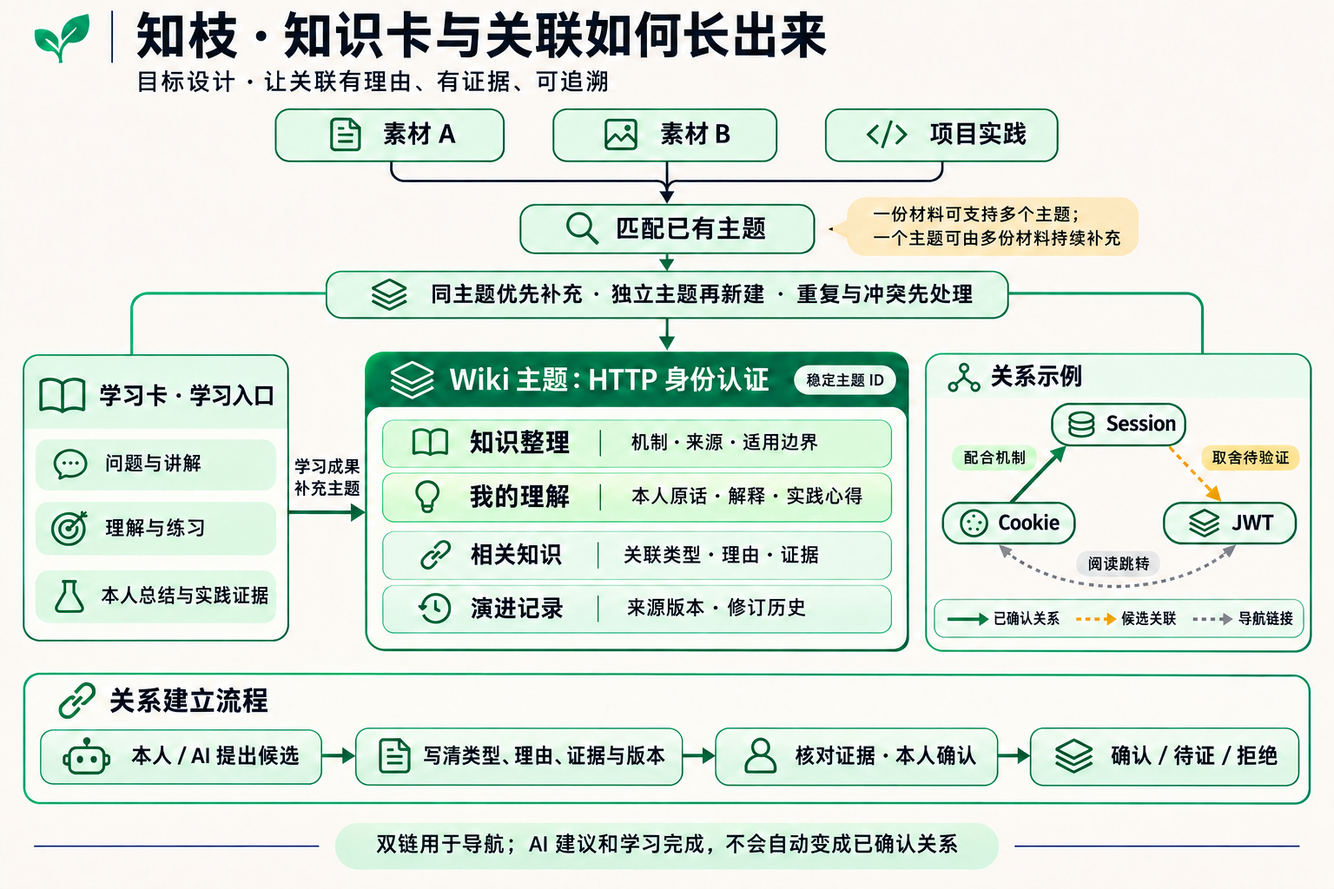
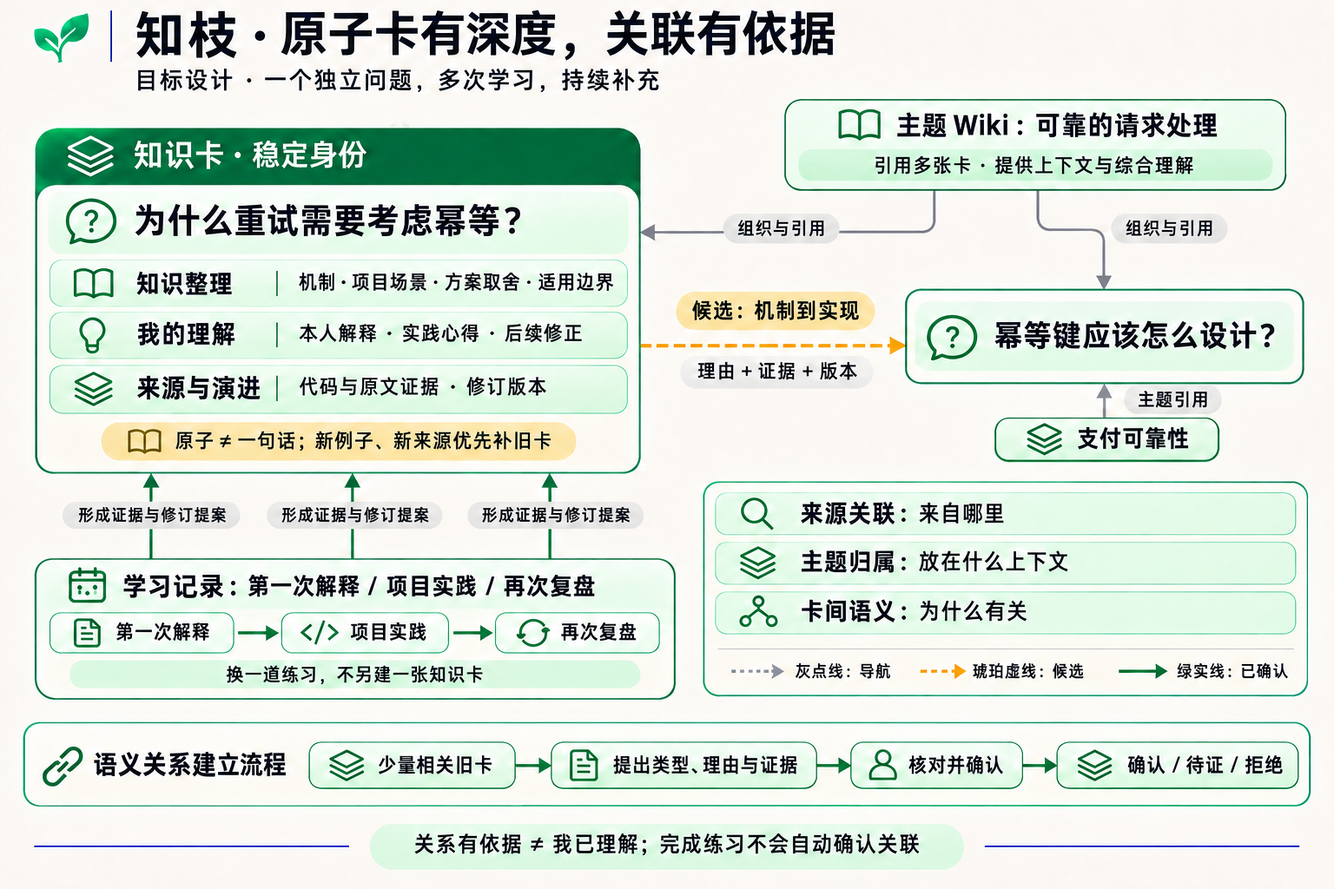
更新原子知识卡与学习预算的目标设计

diff --git a/docs/assets/vision/prompts.md b/docs/assets/vision/prompts.md
@@ -1,131 +1,102 @@
 # 目标设计图的生成说明
 
-这三张图描述产品构想，不表示当前代码完成度。设计依据见 [产品方向](../../../.agents/notes/proposed/2026-11-16-product-direction.md)。使用内置 imagegen；参考上一版知枝信息图的配色与图标风格，重新组织信息。
+这三张图描述已确认的产品方向，不表示当前代码完成度。设计依据见[产品方向](../../../.agents/notes/proposed/2026-11-16-product-direction.md)。本轮使用内置 imagegen，以同名旧图作为视觉风格参考，按原子知识卡、独立学习记录、主题组织与每日预算重绘。旧版内容由 Git 历史保留。
 
 | 文件 | 用途 |
 |---|---|
-| [target-overview.png](target-overview.png) | 项目目标全景 |
-| [knowledge-cards-relations.png](knowledge-cards-relations.png) | 学习卡、长期主题及关联建立 |
-| [learning-feedback-loop.png](learning-feedback-loop.png) | 地图、雷达、知返与 Wiki 回流 |
+| [target-overview.png](target-overview.png) | 输入、审核、原子卡与主题组织的全景 |
+| [knowledge-cards-relations.png](knowledge-cards-relations.png) | 丰富的原子卡、独立学习记录、多主题引用与卡间语义关系 |
+| [learning-feedback-loop.png](learning-feedback-loop.png) | 聚合输入、优先补旧卡、正式新增与每日学习预算 |
 
-重绘时可以把同目录现有图片作为风格参考。下列提示词为本轮实际使用内容，示例关系不是最终 Schema 枚举。
+图中候选分配数字仅为示意；每天 0～3 张正式新增、一条主线约 15～20 分钟是可调整的起始默认。关系名称为解释用示例，未固定为 Schema 枚举。
+
+以下为本轮实际使用的提示词；输入图仅作风格参考，图中旧对象定义已被新方案取代。
 
 ## 产品目标全景
 
 ```text
 Use case: infographic-diagram.
-Asset type: Chinese open-source README product vision diagram, landscape 3:2, very high resolution, readable Chinese typography.
-Primary request: Completely redesign the prior Zhizhi diagram to describe the intended future product, not implementation status. Input images are STYLE REFERENCES ONLY: retain cream background, dark navy text, restrained emerald green and soft teal, elegant thin line icons and rounded cards. Replace all old content and layout. Do not show completed/planned badges, checkmarks, percentages, source commit numbers, backend folder paths or current implementation claims. Clear flow and generous spacing matter more than decorative elements.
-
-Title exactly: “知枝 · 我们想实现的个人知识系统”
-Small subtitle exactly: “目标设计 · 不代表当前完成度”
-
-Organize an instantly understandable product flow around a large central knowledge asset:
-LEFT two entry sources:
-“读到的内容” with “文章 · 视频 · 链接 · 笔记”
-below it “做过的实践” with “Git 提交 · 项目问题 · 主动探索”
-Their paths respectively say “采集 → 摘要预览 → 本人收藏” and “知返：理解 · 练习 · 实践”.
-
-TOP show “微信 / Telegram” and “Web 工作台” connecting into “知识 Agent”, with small label “自然语言交互 · 调用知识与学习能力”. Agent participates in collection, search and learning, without bypassing review.
-
-CENTER show the incoming update path “匹配已有主题 → 增补或新建提案 → 分级审核” leading into a visually dominant card titled “同一套 Wiki 知识体系”.
-Inside that card show two clearly separated equal sections:
-“知识整理” — “定义 · 机制 · 边界 · 来源”
-“我的理解” — “本人解释 · 类比 · 实践心得”
-Bottom of central card: “相关知识 · 来源证据 · 修订历史”.
-Near review path show a concise note: “普通有据增补可自动；个人观点与重大改动本人确认”.
-
-RIGHT show three derived uses:
-“知识地图” — “浏览主题与已确认关系”
-“学习雷达” — “提出候选关联与学习建议”
-“按权限发布 Wiki” — “私有阅读 / 合格公开投影”
-A clear feedback arrow from learning radar to 知返 learning path says “本人采纳后学习，再回填”.
-
-BOTTOM place “Obsidian · 主要编辑界面” connected bidirectionally to the central Wiki, label “Git 同步 · 版本追踪 · 冲突处理”.
-A small calm foundation note: “正文：Markdown / Git　流程状态：SQLite　原件与索引分层保存”.
-
-All displayed text in simplified Chinese as specified. Product relationships must be clear: all lasting outcomes converge into the SAME Wiki, knowledge organization and personal understanding remain visibly distinct, Obsidian remains primary editor, raw materials are distinct from formal knowledge, private knowledge does not automatically become public. Do not include a status-colored function tree or invented mastery scores. This is an explanatory product illustration, not a software microservice topology.
+Asset type: Chinese open-source README vision diagram, high-resolution landscape 3:2.
+Input image: STYLE REFERENCE ONLY. Keep its cream background, navy Chinese typography, emerald/soft teal rounded cards, thin line icons, occasional amber review notes. Completely redesign content and composition to reflect the new model below. Large readable simplified Chinese, strong hierarchy, generous whitespace.
+Title exactly “知枝 · 从日常输入到自己的知识网络”
+Subtitle exactly “目标设计 · 不代表当前完成度”
+Top slim entry bar: “微信 / Telegram · Web 工作台 → 知识 Agent”.
+Main left-to-right flow:
+Left two input cards “读到的材料” with “采集 → 摘要预览 → 本人收藏”, and “做过的实践” with “Git 提交 · 项目问题 · 主动探索”.
+Both flow into a compact gateway “聚合工作意图 → 匹配已有卡 → 增补或新建提案 → 分级审核”. This gateway leads into a large central container “同一套 Wiki 知识资产”.
+Within central container, show TWO clearly distinct layers:
+Bottom/main content layer “原子知识卡” — “一个可独立解释、验证、迁移的问题”; draw three rich small document cards connected to one another, not isolated single-word tiles. Beside these use “知识整理 | 我的理解”, then “来源 · 边界 · 版本 · 卡片关系”.
+Top organization layer “主题 Wiki” — “引用卡片 · 组织上下文 · 综合理解”; a thin connector labeled “组织与引用” from the theme layer to the atomic card layer, NOT a content-copying arrow.
+Outside the central knowledge asset, underneath left, a distinct process card “知返 · 学习记录” with “阅读 · 练习 · 解释 · 实践”, small note “多次学习可指向同一张卡”. It points through “成果提案 → 分级审核” into knowledge cards. Learning records themselves remain separate from lasting card content.
+Right derived uses: “知识地图” with “浏览卡片关系与主题概览”; “学习雷达” with “发现候选联系与待证问题”; “按权限发布” with “私有阅读 / 合格公开投影”.
+From 学习雷达 a clearly labeled separate return arrow “本人采纳 → 学习任务” goes ONLY to 知返学习记录, NEVER directly to knowledge assets.
+Bottom bar “Obsidian · 主要编辑界面 ↔ Markdown / Git” with “双向同步 · 冲突保留与合并”.
+Small governance note “普通有据增补可自动；个人观点与重大改动本人确认”.
+Small footer “正文、原件、流程记录与索引分层保存”.
+Semantic constraints: atomic cards and topic Wiki belong to one set of knowledge assets; learning history is separate process evidence. Relationships primarily connect cards, topics organize them. Do not label a knowledge card merely as a learning entry. No completion marks, percentages, status legend, repository paths, or current delivery claims. Avoid tangled arrows; omit decorative minor connectors rather than inventing shortcuts.
 ```
 
-## 知识卡与关联
+## 原子知识卡与关联
 
 ```text
 Use case: infographic-diagram.
-Asset type: a readable Chinese product-design infographic for Zhizhi's open-source README; landscape 3:2 at high resolution.
-Input image is a STYLE REFERENCE ONLY: match its cream background, dark navy type, emerald/teal outlines, softly tinted cards, clear line icons and generous spacing. Create a new information architecture, not a status chart.
-
-Main title exactly: “知枝 · 知识卡与关联如何长出来”
-Subtitle exactly: “目标设计 · 让关联有理由、有证据、可追溯”
-
-The main purpose is to explain the detailed intended knowledge model and relationship-building process, not list software modules.
-TOP small source band: “素材 A” “素材 B” “项目实践” converging through “匹配已有主题”.
-A note exactly: “一份材料可支持多个主题；一个主题可由多份材料持续补充”.
-A compact decision band: “同主题优先补充 · 独立主题再新建 · 重复与冲突先处理”.
-
-MIDDLE LEFT a compact card titled “学习卡 · 学习入口”, with short lines “问题与讲解” “理解与练习” “本人总结与实践证据”.
-An arrow labeled “学习成果补充主题” leads to the CENTER dominant permanent topic card:
-header “Wiki 主题：HTTP 身份认证”
-small stable-identity tag “稳定主题 ID”
-four visibly separated rows:
-“知识整理” — “机制 · 来源 · 适用边界”
-“我的理解” — “本人原话 · 解释 · 实践心得”
-“相关知识” — “关联类型 · 理由 · 证据”
-“演进记录” — “来源版本 · 修订历史”
-Keep 知识整理 and 我的理解 visually distinct, but in one topic card. Do not invent a personal opinion.
-
-MIDDLE RIGHT draw an intelligible sample knowledge network with nodes “Cookie”, “Session”, “JWT”.
-Mark the network “关系示例”.
-Use a solid emerald edge between Cookie and Session labeled “配合机制”; an amber dashed edge between Session and JWT labeled “取舍待验证”; a gray dotted edge for “阅读跳转”.
-Provide explicit line-style legend “导航链接” “候选关联” “已确认关系”. These colors refer to RELATION TYPE, not completion status.
-Do not make every edge a confirmed fact. Clearly show that the candidate edge is provisional.
-
-BOTTOM a large, legible relationship establishment pipeline:
-“本人 / AI 提出候选” → “写清类型、理由、证据与版本” → “核对证据 · 本人确认” → “确认 / 待证 / 拒绝”.
-Keep the middle pipeline as the main takeaway rather than tiny text.
-Footer exactly: “双链用于导航；AI 建议和学习完成，不会自动变成已确认关系”.
-
-Simplified Chinese must be crisp and correctly rendered. No completion badges, checkmarks, mastery scores, dates, source SHAs, backend directory paths, or production-ready claims. Relationship names are illustrative. The composition should make clear that learning cards are learning entries while lasting knowledge and relationships are organized around stable Wiki topics.
+Asset type: high-resolution Chinese README product-design explanatory image, landscape 3:2.
+Input image: STYLE REFERENCE ONLY. Retain cream, navy, emerald/soft teal cards, clean line icons and amber candidate accents. Replace all old structure and text; previous “学习卡只是入口/关系只落主题” model has been superseded.
+Title exactly “知枝 · 原子卡有深度，关联有依据”
+Subtitle exactly “目标设计 · 一个独立问题，多次学习，持续补充”
+Main left half, the largest card:
+header “知识卡 · 稳定身份”
+question in large text “为什么重试需要考虑幂等？”
+rich separate rows:
+“知识整理” — “机制 · 项目场景 · 方案取舍 · 适用边界”
+“我的理解” — “本人解释 · 实践心得 · 后续修正”
+“来源与演进” — “代码与原文证据 · 修订版本”
+small callout beneath exactly “原子 ≠ 一句话；新例子、新来源优先补旧卡”
+Upper right, smaller “主题 Wiki：可靠的请求处理” with “引用多张卡 · 提供上下文与综合理解”. Two thin lines marked “组织与引用” point from this topic to main question card and a right-side second card “幂等键应该怎么设计？”. Show the same second card can also be referenced by a smaller theme tag “支付可靠性”; do not duplicate card content.
+Between main card and second card draw an AMBER DASHED semantic edge, label “候选：机制到实现”. A compact note below edge “理由 + 证据 + 版本”. Distinguish semantic edge from gray thin topic-reference lines.
+Lower left a separate process strip “学习记录：第一次解释 / 项目实践 / 再次复盘” with multiple slim arrows pointing at SAME main card, caption “换一道练习，不另建一张知识卡”. Explicitly label arrows “形成证据与修订提案” so practice does not auto-write personal views.
+Lower right concise three-part panel:
+“来源关联：来自哪里”
+“主题归属：放在什么上下文”
+“卡间语义：为什么有关”
+small legend “灰点线：导航　琥珀虚线：候选　绿实线：已确认”.
+Bottom full-width semantic relationship process:
+“少量相关旧卡 → 提出类型、理由与证据 → 核对并确认 → 确认 / 待证 / 拒绝”
+footer exactly “关系有依据 ≠ 我已理解；完成练习不会自动确认关联”
+Constraints: primary semantic relations between ATOMIC KNOWLEDGE CARDS; topic wiki organizes and references rather than duplicating content. An atomic card has a useful independently learnable question, not every word/syntax. Source and theme membership never count as confirmed semantic relations. Do not overload diagram or add badges/scores. Use rich content example and clear card references, no invented personal quote.
 ```
 
-## 学习反馈闭环
+## 每日学习预算与反馈
 
 ```text
 Use case: infographic-diagram.
-Asset type: Chinese open-source product vision image, landscape 3:2, high resolution.
-Style reference: retain the cream background, dark navy typography, emerald/teal outlines, clean rounded cards and subtle warm amber accents of the reference. All visuals must communicate FUTURE DESIGN, never software completion.
-
-Title exactly: “知枝 · 让知识网络推动下一次学习”
-Small subtitle exactly: “目标设计 · 地图 → 雷达 → 知返 → Wiki 回流”
-
-Create a clear circular product-learning loop, with numbered stages only to indicate FLOW ORDER:
-1. “知识地图” — “查看已有主题、已确认关系与关联路径”
-2. “学习雷达” — “发现候选关联、缺失环节与待证问题”
-3. “本人选择” — three options “采纳 / 延后 / 忽略”; only the 采纳 branch proceeds
-4. “知返学习与实践” — “解释概念 · 探索联系 · 做项目验证”
-5. “整理成果与分级审核” — “优先补充已有主题，必要时提出新主题”
-6. “更新 Wiki 与关系” — display two separate sections “知识整理” and “我的理解”; then return to the knowledge map.
-
-Show a visually distinct evidence panel beneath learning stage with three equally weighted small cards:
-“理解证据” — “能解释概念与边界”
-“关联证据” — “能说明为什么相连”
-“应用证据” — “项目、练习与复盘”
-These are evidence categories, not scores or achievements.
-
-A concise governance callout: “普通有据增补可自动；个人观点与重大改动本人确认”.
-A small secondary path labeled “月度回顾”: “本人选材料 → AI 提议 → 本人审阅 → 更新我的理解”, joining the same Wiki rather than a second isolated knowledge store.
-Footer exactly: “孤立节点是探索线索；连线数量与任务完成率，不等于掌握度”.
-
-Prioritize a readable feedback loop over a dense module tree. Arrows must show that adopting a radar suggestion creates a learning task, that learning produces evidence and a proposal, and that formal Wiki/relationship changes still pass review. No auto-confirmation of an AI relationship merely because a lesson was finished. No status badges, completion colors, percentages, code paths or claims that the design is already delivered.
+Asset type: high-resolution Chinese README product-design infographic, landscape 3:2.
+Input image: STYLE REFERENCE ONLY. Cream background, navy readable text, emerald/soft teal rounded blocks, amber provisional candidates, clean thin line icons. Completely redesign prior circular figure as clear funnel with a small feedback loop; fit generous whitespace.
+Title exactly “知枝 · 做了很多，每天只学值得学的”
+Subtitle exactly “目标设计 · 分开控制候选、正式新增和学习负担”
+Top horizontal flow, label it “一天的项目输入 · 数量仅为示意”:
+“50 次提交 / 1 万行改动” → “按工作意图归并：4 项工作” → “提炼 12 个候选问题”
+From 12 candidates branch cleanly into THREE blocks in middle row:
+“7 个匹配旧卡” / “补来源或提出修订”
+“3 个暂存候选” / “合并 · 降权 · 延后”
+“2 个值得新建” / “入选后才生成完整卡”
+Explicit amber small note near new cards “不先生成 100 张，再只展示几张”.
+Below three branches, create two large distinct budget cards:
+left “正式新增预算” with large “每天 0～3 张” and “可调整的起始默认 · 允许 0 张 · 不凑数”
+right “今日学习预算” with large “一条主线 · 约 15～20 分钟” and “新旧卡 + 练习 + 关键关联；示例 2～3 张”
+Make clear 0–3 limits FORMAL NEW CARDS, not all learning or candidate extraction. Daily time includes revisiting existing cards and exercises; no daily card-count obligation.
+Bottom a compact real feedback path:
+“知识地图 / 学习雷达 → 本人采纳 → 知返学习与实践 → 成果提案与分级审核 → 更新原卡或必要时新建”
+Loop final outcome back to map/radar with a small discreet arrow; NO direct arrow from adopting to formal Wiki.
+A small evidence strip under path “分别保留：理解证据 · 关联证据 · 应用证据”.
+Footer in readable two short sentences:
+“候选不是必须清空的待办；过期可退出推荐，保留来源线索。”
+“漏学不叠加补课；普通有据增补可自动，个人观点与重大改动本人确认。”
+All figures are illustrative except adjustable initial defaults explicitly labeled; no current implementation claims, mastery percentages, completion icons, overly complex module tree. Do not make 2 new cards imply all 7 old-card supplements require relearning. Do not imply candidate staging generates full detailed cards.
 ```
 
-## 定点校正：vision_cards_final
+## 定点校正：主题引用连线
 
 ```text
-Edit the provided Chinese Zhizhi knowledge-card infographic with ONE precise text correction. The small gray label above the gray dotted navigation edge between Cookie and JWT must read exactly “阅读跳转” (last character 转), with no misspelling. Preserve every other word, card, color, icon, line style, arrow, spacing and layout exactly. Do not add content or reinterpret the model. Keep the title and future-design subtitle unchanged.
-```
-
-## 定点校正：vision_loop_final
-
-```text
-Edit the provided Chinese Zhizhi feedback-loop infographic with ONE precise diagram correction. Remove the short horizontal left-pointing arrow from the LEFT EDGE of the stage 3 “本人选择” box into the central “同一套 Wiki 知识体系” card. There must be NO direct arrow from stage 3 user choice to the formal Wiki: adopting a suggestion only creates a learning task. Preserve the existing downward curved arrow from stage 3 to stage 4, its “采纳后 生成学习任务” label, the entire stages 1→2→3→4→5→6→1 cycle, the stage 5 review path, all text, icons, colors, spacing and remaining arrows exactly. In particular the monthly-review approved path and all three evidence cards remain. Fill the removed arrow area seamlessly with the original cream background. Do not add another arrow or remove any other connection.
+Edit this image with ONE precise diagram correction. The short GREEN UPWARD arrow from the topic tag “支付可靠性” to the knowledge card “幂等键应该怎么设计？” must become a thin GRAY topic-reference arrow, matching the other gray “组织与引用” connectors from the upper theme Wiki. Add a compact gray label “主题引用” beside this short arrow if it fits. This arrow expresses theme membership/reference, NEVER a confirmed card-to-card semantic relation; therefore it must not use the solid green confirmed-relation style. Preserve every other word, card, position, icon, color, line, title, amber candidate edge, legend, learning record arrows and footer exactly. Do not redesign or add other content.
 ```

diff --git a/README.md b/README.md
@@ -29,8 +29,8 @@
 | 我想做的事 | 知枝的目标使用方式 |
 |---|---|
 | 快速判断一份资料是否值得留 | 分享链接或文本，先看摘要、原文依据与采集范围，再决定收藏或丢弃 |
-| 从真实项目中学习 | 从 Git 提交、问题和实践中形成学习卡，阅读讲解、完成练习、写下自己的解释 |
-| 积累同一个主题 | 新材料和新的学习成果优先补充已有主题，保留来源、适用边界与修订历史 |
+| 从真实项目中学习 | 将多次提交按工作意图聚合，优先匹配旧卡，每天围绕少量值得学的问题阅读、练习与实践 |
+| 积累同一个主题 | 用主题 Wiki 组织原子知识卡；新来源和学习成果优先补旧卡，保留边界与修订历史 |
 | 建立知识之间的联系 | 看清两个知识点为什么有关，关联到具体依据，并区分候选关系与确认关系 |
 | 决定接下来学什么 | 用地图查看已有知识，用雷达发现值得探索的缺口，采纳后进入学习任务 |
 | 保留并分享自己的知识 | 在 Obsidian 中维护正文；经过独立公开检查的内容可生成只读 Wiki 站点 |
@@ -46,29 +46,54 @@
 
 两类表达在同一主题中统一呈现，底层可以分开存储，各自保留来源和公开权限。AI 可以帮助整理，个人观点与重要变化需要本人确认。
 
+### 知识卡有深度，学习记录独立保存
+
+**知识卡是可持续补充的原子知识单元**。“原子”按独立学习目标划分：一个能够独立解释、验证并迁移使用的问题，可以有完整的机制、项目场景、处理方案、取舍、适用边界与来源。
+
+例如，“为什么重试需要考虑幂等？”可以是一张内容丰富的卡；“幂等键应该怎么设计？”有独立学习目标，可以另成一张。新增例子、来源或换一道练习，优先补充原卡。
+
+| 对象 | 保存什么 | 如何协作 |
+|---|---|---|
+| 原子知识卡 | 一个独立知识问题的整理、个人理解、依据与版本 | 稳定身份，多次学习持续补充，卡片之间建立语义关系 |
+| 学习记录 | 某次阅读、解释、练习与项目实践及其证据 | 独立保存过程，可多次指向同一张卡 |
+| 主题 Wiki | 多张卡的组织、上下文和跨卡片的综合理解 | 可以引用同一张卡，避免复制成两份独立编辑的正文 |
+
+卡片和主题共同构成一套 Wiki 知识资产，原子粒度、内容深度和每日学习负担分别处理。同主题依然统一呈现“知识整理”和“我的理解”。
+
 ## 知识如何建立联系
 
-本次图示先区分两类对象：**学习卡**是问题、讲解与练习的入口；**Wiki 主题**是长期沉淀的知识节点。学习成果可以持续补充同一主题，主题之间再建立可追溯的知识关系。
+![目标设计：丰富的原子知识卡、主题组织与有依据的卡片关联](docs/assets/vision/knowledge-cards-relations.png)
 
-关联需要回答“为什么有关”：是前置概念、配合机制、应用场景，还是值得对比的方案。关系应保留提出者、理由、证据和对应版本。
+关系分三层：**来源关联**回答“来自哪里”，**主题归属**回答“放在什么上下文”，**卡间语义关系**回答“为什么有关”。主要语义关系建立在原子知识卡之间，主题提供组织与汇总视图。
 
-![目标设计：学习卡、长期知识节点与关联建立](docs/assets/vision/knowledge-cards-relations.png)
+语义关系可以表达前置概念、配合机制、应用场景或方案对比，保留类型、提出者、理由、证据、状态与对应版本。每张新卡先找少量相关旧卡；当前学习优先解释一两条关键关系，其余候选不全部转成人工待办。
 
-三类连线分别表达不同含义：
+阅读导航与语义关系的状态需要区分：
 
-| 关系 | 表达什么 | 如何使用 |
+| 表达 | 含义 | 如何使用 |
 |---|---|---|
 | 导航链接 | 两篇内容之间存在引用或跳转 | 帮助查阅，不直接证明知识关系成立 |
 | 候选关联 | AI 或本人提出了一个值得验证的联系 | 展示理由、证据和待回答的问题 |
 | 已确认关系 | 联系经过核对与确认 | 进入正式知识地图，仍能追溯依据与版本 |
 
-同一份材料可以支持多个主题，一个主题也可以由多份材料和多次学习逐步补充。新内容先匹配已有主题；确有独立主题时再新建节点，重复、矛盾或不确定之处先处理清楚。
+来源与主题归属不会自动产生已确认语义关系。“关系有依据”和“我理解了这条关系”分别记录；完成练习不会自动确认关联。卡片实质变更时重审受影响关系，历史学习记录继续保留。
 
-### 地图、雷达与学习回流
+### 每天做了很多，也只引入少量值得学的新知识
 
-![目标设计：地图查看知识、雷达发现线索、学习成果回填 Wiki](docs/assets/vision/learning-feedback-loop.png)
+![目标设计：聚合项目输入、优先补旧卡、分开控制正式新增与每日学习预算](docs/assets/vision/learning-feedback-loop.png)
 
-**地图**用于浏览已有主题、已确认关系和关联路径。**雷达**结合已有知识与学习证据，提出候选关联、待证问题和下一步学习建议。本人采纳后进入学习与实践，成果再补充 Wiki 和关系网络。
+一天 50 次提交、1 万行改动，不应逐条产卡。目标流程是先聚合工作意图，提炼简短候选与证据指针，匹配旧卡；只有值得入选的新问题才生成完整知识卡与练习。架构机制、当前项目关键问题、设计取舍和可迁移知识优先。
+
+| 控制什么 | 可调整的起始默认 |
+|---|---|
+| 正式新增 | 每天 **0～3 张**，允许 0 张，不为凑数建卡 |
+| 今日学习 | **一条主线、约 15～20 分钟**；包含新旧卡、练习和关键关联，图中 2～3 张只是示例 |
+| 普通补充 | 优先补旧卡；新增来源或例子不全部要求重新学习 |
+| 候选积压 | 合并、降权、延期；过期可退出推荐并保留来源线索，不要求清空 |
+
+漏学一天，第二天不简单叠加补课。学习包只是围绕主线组织已有卡和学习活动，不再建立另一套知识库。候选、正式新增与总学习时间分别控制。
+
+**地图**浏览卡片、已确认关系与主题概览；**雷达**提出候选联系、待证问题和学习建议。本人采纳后进入学习与实践，成果经过分级审核再补充原卡，必要时新建卡，并更新主题与关系。
 
 理解证据、关联证据、应用证据分别保留。孤立节点可以是探索线索，连线数量和任务完成情况不直接换算成“掌握度”。月度回顾也由本人主动选择材料，再审阅个人理解的更新建议。
 
@@ -76,14 +101,15 @@
 
 ## 当前阶段
 
-仓库已有材料收件与预览、来源保留、知识提案、分级复核、Git 写入、检索、工程学习、私有 Wiki、Pi 集成和 Quartz 公开投影等基础代码。学习卡、学习成果与正式 Wiki 的接入也在持续整合。
+仓库已有材料收件与预览、来源保留、知识提案、分级复核、Git 写入、检索、工程学习、私有 Wiki、Pi 集成和 Quartz 公开投影等基础代码。工程学习已有候选聚合、旧卡匹配和知识焦点筛选等基础；上述原子卡统一模型、主题引用和完整每日预算仍是目标设计。
 
 接下来优先补齐：
 
 1. **Obsidian 主编辑闭环**：本地与平台同步、冲突检测、保留双方修改及明确合并。
-2. **同主题阅读体验**：把知识整理、个人理解、来源与关联放到同一主题中呈现。
-3. **关联与学习反馈**：让候选关系有解释、有验证过程，并把学习成果回填到已有知识。
-4. **真实使用与交付**：逐项验证消息渠道、模型账号、桌面安装和公开站点的完整旅程。
+2. **原子卡与主题组织**：明确卡片正文、主题引用和学习记录的归属，同主题呈现知识整理与个人理解。
+3. **候选与学习预算**：先聚合、匹配与筛选，再生成；控制正式新增和学习时间，避免积压压力。
+4. **关联与学习反馈**：让卡间候选关系有理由、有证据、有确认过程，学习成果优先补充旧卡。
+5. **真实使用与交付**：逐项验证消息渠道、模型账号、桌面安装和公开站点的完整旅程。
 
 设计图中的平台适配、统一知识 Agent、双向同步和完整学习反馈，不能仅凭代码存在视为已经可用。当前技术职责见[实现架构](docs/architecture.md)，验证范围见[测试规则](docs/testing.md)。
 

diff --git a/docs/README.md b/docs/README.md
@@ -2,7 +2,7 @@
 
 当前说明：[架构](architecture.md) · [开发](development.md) · [配置](configuration.md) · [测试](testing.md) · [知识子系统](subsystems/knowledge.md) · [模型与入口](subsystems/integrations.md)。
 
-目标设计：[个人知识系统构想](../.agents/notes/proposed/2026-11-16-product-direction.md)，包含产品全景、知识卡关联与学习反馈图；与当前实现说明分别维护。
+目标设计：[个人知识系统构想](../.agents/notes/proposed/2026-11-16-product-direction.md)，包含产品全景、原子知识卡与主题组织、卡片关联、每日新增与学习预算；配有三张目标图，与当前实现说明分别维护。
 
 操作指南：[新增变更](cookbook/change.md) · [使用入口](user/quickstart.md)。
 
